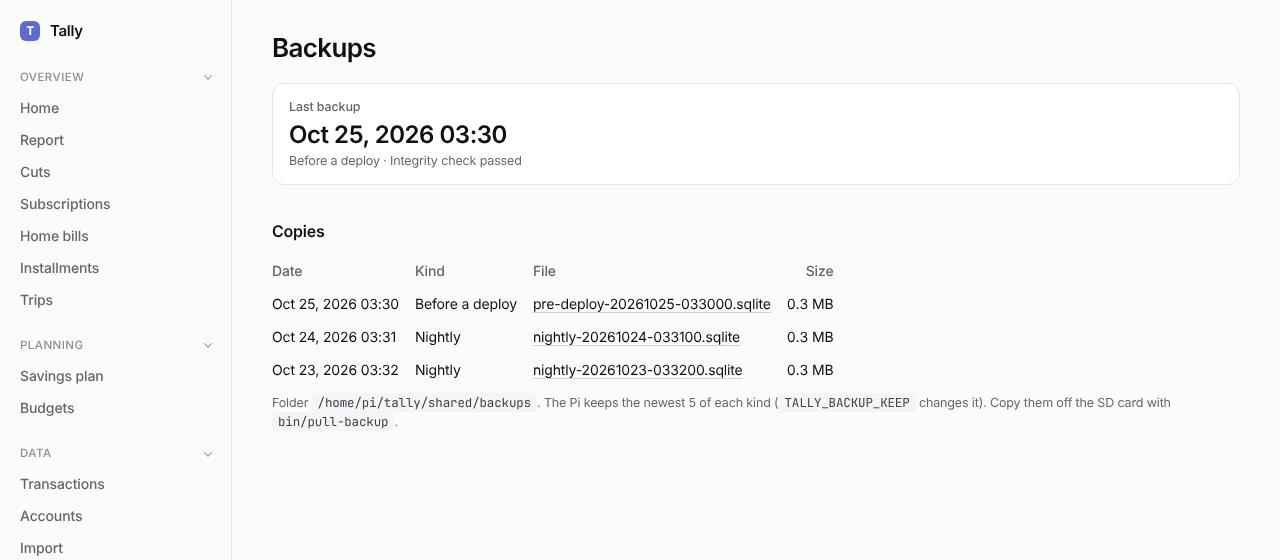
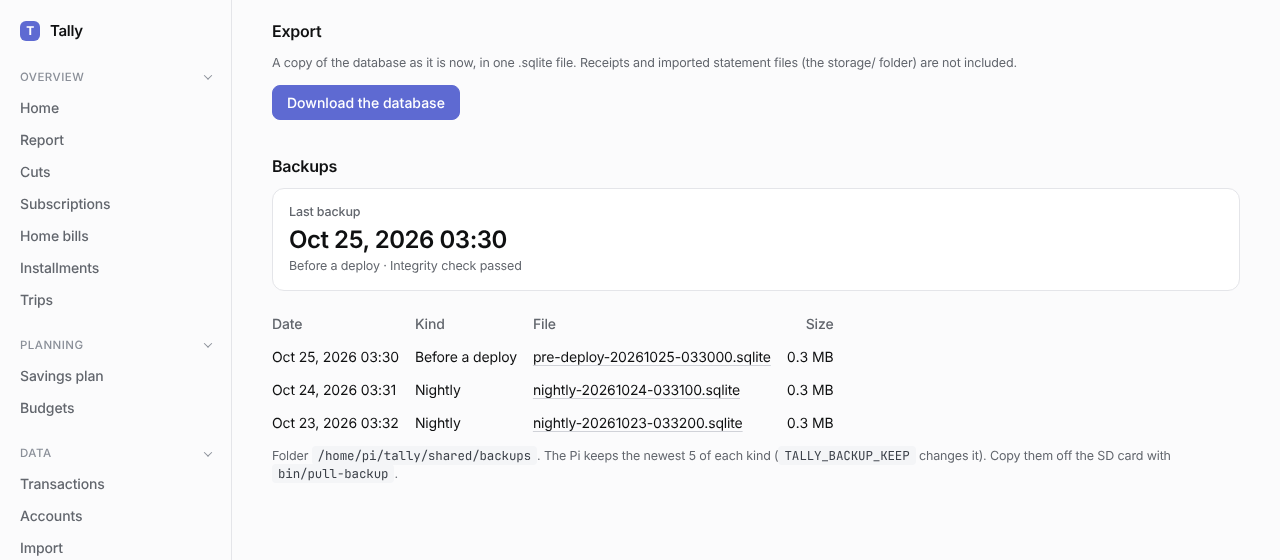
Backups: show them in Debug info, next to the export
The separate page and its sidebar link go away; the section lives on
/debug (#backups), downloads move to /debug/backups/<file>, and the home
warning links there.

Claude-Session: https://claude.ai/code/session_014YhsoDaZo9HX5ur3DPaQae

diff --git a/spec/requests/debug_backups_spec.rb b/spec/requests/debug_backups_spec.rb
@@ -2,15 +2,19 @@
 
 require "tmpdir"
 
-RSpec.describe "Backups", type: :request do
+RSpec.describe "Backups on the Debug info page", type: :request do
   it "explains where backups come from when this machine has none" do
-    get "/backups"
+    get "/debug"
 
     expect(last_response.status).to eq(200)
-    expect(last_response.body).to include("<h1>Backups</h1>", %(<a href="/backups" aria-current="page">), "BACKUP_DIR")
+    expect(last_response.body).to include(%(<h2 id="backups">Backups</h2>), "BACKUP_DIR")
 
     get "/"
     expect(last_response.body).not_to include("No backup in the last", "The last backup failed")
+
+    allow(Hanami.app["settings"]).to receive(:allow_export_without_login).and_return(true)
+    get "/debug/backups/nightly-20261025-033000.sqlite"
+    expect(last_response.status).to eq(404)
   end
 
   context "with a backups folder" do
@@ -27,13 +31,13 @@ RSpec.describe "Backups", type: :request do
     end
 
     it "shows the last run and the copies, without download links while the login is off" do
-      get "/backups"
+      get "/debug"
 
       expect(last_response.body).to include("Oct 25, 2026 03:30", "nightly-20261025-033000.sqlite", @dir, "bin/pull-backup")
-      expect(last_response.body).to include("Integrity check passed", "Downloads need the login on")
-      expect(last_response.body).not_to include(%(href="/backups/nightly))
+      expect(last_response.body).to include("Integrity check passed", "Downloads follow the same rule as the export")
+      expect(last_response.body).not_to include(%(href="/debug/backups/nightly))
 
-      get "/backups/nightly-20261025-033000.sqlite"
+      get "/debug/backups/nightly-20261025-033000.sqlite"
       expect(last_response.status).to eq(403)
 
       get "/"
@@ -43,34 +47,34 @@ RSpec.describe "Backups", type: :request do
     it "downloads a copy when allowed, and only files from the folder" do
       allow(Hanami.app["settings"]).to receive(:allow_export_without_login).and_return(true)
 
-      get "/backups"
-      expect(last_response.body).to include(%(href="/backups/nightly-20261025-033000.sqlite"))
+      get "/debug"
+      expect(last_response.body).to include(%(href="/debug/backups/nightly-20261025-033000.sqlite"))
 
-      get "/backups/nightly-20261025-033000.sqlite"
+      get "/debug/backups/nightly-20261025-033000.sqlite"
       expect(last_response.status).to eq(200)
       expect(last_response.headers["Content-Disposition"]).to eq(%(attachment; filename="nightly-20261025-033000.sqlite"))
       expect(last_response.body).to start_with("SQLite format 3\0")
 
-      get "/backups/nightly-20261024-033000.sqlite"
+      get "/debug/backups/nightly-20261024-033000.sqlite"
       expect(last_response.status).to eq(404)
-      get "/backups/log.jsonl"
+      get "/debug/backups/log.jsonl"
       expect(last_response.status).to eq(404)
     end
 
     it "warns on the page and at home when the newest copy is old" do
       allow(Time).to receive(:now).and_return(now + 2 * 86_400)
 
-      get "/backups"
+      get "/debug"
       expect(last_response.body).to include(%(<p class="warning">No backup in the last 36 hours.))
 
       get "/"
-      expect(last_response.body).to include(%(<p class="warning"><a href="/backups">No backup in the last 36 hours.))
+      expect(last_response.body).to include(%(<p class="warning"><a href="/debug#backups">No backup in the last 36 hours.))
     end
 
     it "warns when the last check failed" do
       File.write(File.join(@dir, "log.jsonl"), %({"time":"2026-10-25T11:00:00Z","kind":"pre-deploy","file":"pre-deploy-20261025-080000.sqlite","bytes":0,"check":"row 3 missing from index"}\n), mode: "a")
 
-      get "/backups"
+      get "/debug"
       expect(last_response.body).to include("The last backup failed: row 3 missing from index")
 
       get "/"

diff --git a/config/settings.rb b/config/settings.rb
@@ -14,8 +14,8 @@ module Tally
     # holds every transaction. True lets it work without one (e.g. on a trusted home network).
     setting :allow_export_without_login, default: false, constructor: Types::Params::Bool
 
-    # Where the Pi keeps its database backups (deploy/pi/backup.sh), for the Backups page and
-    # the home warning. Blank (development) means there are none on this machine.
+    # Where the Pi keeps its database backups (deploy/pi/backup.sh), for the Backups section
+    # of the Debug info page and the home warning. Blank (development) means there are none.
     setting :backup_dir, default: nil, constructor: Types::String.optional
 
     # Where imported statement files are kept, named by their SHA-256, so any import can be

diff --git a/app/views/debug/show.rb b/app/views/debug/show.rb
@@ -23,6 +23,13 @@ module Tally
 
         # The export button shows only when the download is allowed (Actions::Debug::Export).
         expose(:export_on) { Tally::DatabaseExport.allowed? }
+
+        # The Pi's database backups (Tally::Backups): the last run, its check and the copies.
+        # Downloads follow the export rule above.
+        expose(:backup_dir) { Tally::Backups.dir }
+        expose(:copies, decorate: false) { |backup_dir| backup_dir ? Tally::Backups.copies(backup_dir) : [] }
+        expose(:last_run, decorate: false) { |backup_dir| Tally::Backups.last_run(backup_dir) if backup_dir }
+        expose(:backup_status) { |backup_dir| Tally::Backups.status(backup_dir) if backup_dir }
       end
     end
   end

diff --git a/app/actions/debug/backup.rb b/app/actions/debug/backup.rb
@@ -2,12 +2,12 @@
 
 module Tally
   module Actions
-    module Backups
+    module Debug
       # Downloads one backup copy. Like the database export, only behind the login unless a
       # setting allows it (Tally::DatabaseExport.allowed?), and only a file the folder lists.
-      class Show < Tally::Action
+      class Backup < Tally::Action
         def handle(request, response)
-          halt 403, t("backups.index.downloads_off") unless Tally::DatabaseExport.allowed?
+          halt 403, t("backups.downloads_off") unless Tally::DatabaseExport.allowed?
 
           dir = Tally::Backups.dir or halt(404)
           copy = Tally::Backups.copies(dir).find { _1.file == request.params[:file] } || halt(404)

diff --git a/lib/tally/backups.rb b/lib/tally/backups.rb
@@ -4,9 +4,9 @@ require "json"
 require "time"
 
 module Tally
-  # The Pi's database backups, for the Backups page and the home warning (issue #137,
-  # docs/architecture.md, section 10.3). deploy/pi/backup.sh writes the copies into one
-  # folder (BACKUP_DIR) and one line per run to its log.jsonl; this only reads them.
+  # The Pi's database backups, for the Backups section of the Debug info page and the home
+  # warning (issue #137, docs/architecture.md, section 10.3). deploy/pi/backup.sh writes the
+  # copies into one folder (BACKUP_DIR) and one line per run to its log.jsonl; this only reads them.
   module Backups
     STALE_AFTER = 36 * 3600
     LOG = "log.jsonl"

diff --git a/config/routes.rb b/config/routes.rb
@@ -9,8 +9,7 @@ module Tally
     post "/theme", to: "theme.update", as: :theme
     get "/debug", to: "debug.show", as: :debug
     post "/debug/export", to: "debug.export", as: :debug_export
-    get "/backups", to: "backups.index", as: :backups
-    get "/backups/:file", to: "backups.show", as: :backup, constraints: {file: /[a-z-]+-\d{8}-\d{6}\.sqlite/}
+    get "/debug/backups/:file", to: "debug.backup", as: :backup, constraints: {file: /[a-z-]+-\d{8}-\d{6}\.sqlite/}
 
     get "/imports", to: "imports.index", as: :imports
     post "/imports", to: "imports.create"

diff --git a/docs/architecture.md b/docs/architecture.md
@@ -507,7 +507,7 @@ Set for every connection in `config/providers/db.rb` (milestone 1), and shown on
 | `synchronous` | `FULL` | Writes are rare, so pay for durability on an SD card that may lose power. |
 | `busy_timeout` | `5000` | Wait instead of failing on concurrent writes. |
 
-Plus a **nightly backup** (`sqlite3 … ".backup"`, the newest 5 kept, copied off the SD card), a **`PRAGMA integrity_check`** on every copy, shown on the Backups page and the home page if it fails or the newest copy is old, and the original statement files kept in `storage/imports/` so the database can be rebuilt from them. Home bill receipts live in `storage/receipts/` (§8.9) and are copied off daily with rsync.
+Plus a **nightly backup** (`sqlite3 … ".backup"`, the newest 5 kept, copied off the SD card), a **`PRAGMA integrity_check`** on every copy, shown on the Debug info page and the home page if it fails or the newest copy is old, and the original statement files kept in `storage/imports/` so the database can be rebuilt from them. Home bill receipts live in `storage/receipts/` (§8.9) and are copied off daily with rsync.
 
 ## 10. Running on the Pi Zero 2 W
 
@@ -549,7 +549,7 @@ The host defaults to `$TALLY_HOST`, else `pi@pihole.local`. The Pi user needs pa
 
 `tally-backup.timer` runs `deploy/pi/backup.sh` at 03:30 (or at boot if the Pi was off): SQLite's online `.backup`, then `PRAGMA integrity_check` on the copy, keeping the newest 5 of each kind (`TALLY_BACKUP_KEEP` in `tally.env` changes it). A failed check fails the unit (`systemctl --failed`). Each deploy takes a `pre-deploy` copy before migrating. Off the SD card they go with `bin/pull-backup`, along with the receipts and imported files.
 
-Each run also appends one JSON line to `backups/log.jsonl` (UTC time, kind, file, size, and `ok` or what went wrong; the last 100 lines kept). A copy that fails the backup or the check is deleted, so the folder only holds good copies. The app finds the folder through `BACKUP_DIR` (`setup.sh` writes it into `tally.env`, adding it to an older one) and reads it with `Tally::Backups` (issue #137): the **Backups** page (`/backups`, under Data) shows the last run and its check, and the copies newest first with their kind, time and size. When the last run failed, or the newest copy is older than 36 hours (or there is none), the page and the home page show a warning linking there. Downloading a copy (`GET /backups/<file>`, only names the folder lists) follows the export rule below (`Tally::DatabaseExport.allowed?`), otherwise 403. Nothing runs in the background: the page lists one folder and reads a 100-line file. With `BACKUP_DIR` blank (development) the page explains how backups work on the Pi and home shows nothing.
+Each run also appends one JSON line to `backups/log.jsonl` (UTC time, kind, file, size, and `ok` or what went wrong; the last 100 lines kept). A copy that fails the backup or the check is deleted, so the folder only holds good copies. The app finds the folder through `BACKUP_DIR` (`setup.sh` writes it into `tally.env`, adding it to an older one) and reads it with `Tally::Backups` (issue #137): the **Backups** section of the Debug info page (`/debug#backups`, next to the export) shows the last run and its check, and the copies newest first with their kind, time and size. When the last run failed, or the newest copy is older than 36 hours (or there is none), that section and the home page show a warning linking there. Downloading a copy (`GET /debug/backups/<file>`, only names the folder lists) follows the export rule below, the same switch as the export button (`Tally::DatabaseExport.allowed?`), otherwise 403. Nothing runs in the background: the section lists one folder and reads a 100-line file. With `BACKUP_DIR` blank (development) the section explains how backups work on the Pi and home shows nothing.
 
 A copy can also be downloaded from the browser: **Download the database** on the Debug info page (`/debug`, issue #136) runs `VACUUM INTO` a temp file (a consistent snapshot even mid-write in WAL mode), checks it with `PRAGMA integrity_check` and sends it as `tally-YYYYMMDD-HHMMSS.sqlite` in local time (`Tally::DatabaseExport`). Only the database, not `storage/`. The file holds every transaction, so the button shows and `POST /debug/export` answers only when basic auth is on (both `BASIC_AUTH_*` set) or `ALLOW_EXPORT_WITHOUT_LOGIN=true` (`Tally::DatabaseExport.allowed?`); otherwise the page says why and the route answers 403. Loading a file back from the browser is #139.
 
@@ -658,7 +658,7 @@ Only after version 1 is correct and in daily use. Each one only **suggests**; no
 - **Trips** (issue #75): done. See §8.8.
 - **Home bills** (issue #113): done. See §8.9.
 - **Household** (issue #21): people, accounts by owner, Pix between people paired or shown as unmatched, and the household / person switch (§6.1).
-- **Milestone 8 (Pi deployment)**: in progress (issue #23). `bin/pi-setup`, `bin/deploy`, `bin/pull-backup`, the `tally` service and the nightly backup with an integrity check, a database download on the Debug info page (#136), and the Backups page with a home warning for a failed or old backup (#137) (§10). Left: measuring memory and response times on the Zero 2 W with real-sized data.
+- **Milestone 8 (Pi deployment)**: in progress (issue #23). `bin/pi-setup`, `bin/deploy`, `bin/pull-backup`, the `tally` service and the nightly backup with an integrity check, a database download on the Debug info page (#136), and a Backups section there with a home warning for a failed or old backup (#137) (§10). Left: measuring memory and response times on the Zero 2 W with real-sized data.
 
 ## 17. Public repository: keeping personal data out
 

diff --git a/docs/guide/pt-BR/settings.md b/docs/guide/pt-BR/settings.md
@@ -22,7 +22,7 @@ Fim do menu: **Informações de debug**. Mostra a versão e as configurações d
 
 ## Backups
 
-Menu lateral, Dados: **Backups**. No Pi, uma cópia do banco é feita toda noite às 03:30 e antes de cada deploy, e verificada. A página mostra a última, se a verificação passou, e as cópias guardadas (as 5 mais novas de cada tipo). Se o último backup falhou, ou não há nenhum das últimas 36 horas, a página e o início mostram um aviso em vermelho.
+Informações de debug, abaixo da exportação: **Backups**. No Pi, uma cópia do banco é feita toda noite às 03:30 e antes de cada deploy, e verificada. A seção mostra a última, se a verificação passou, e as cópias guardadas (as 5 mais novas de cada tipo). Se o último backup falhou, ou não há nenhum das últimas 36 horas, a seção e o início mostram um aviso em vermelho.
 
 Clique num arquivo para baixá-lo; como no download do banco, só com o login ligado ou `ALLOW_EXPORT_WITHOUT_LOGIN=true`. Para copiar todos para o seu computador, rode `bin/pull-backup`.
 

diff --git a/docs/guide/en/settings.md b/docs/guide/en/settings.md
@@ -22,7 +22,7 @@ Sidebar, bottom: **Debug info**. Shows the SQLite version and settings (journal 
 
 ## Backups
 
-Sidebar, Data: **Backups**. On the Pi, a copy of the database is made every night at 03:30 and before each deploy, and checked. The page shows the last one, whether its check passed, and the copies kept (the newest 5 of each kind). If the last backup failed, or there is none from the last 36 hours, the page and the home page show a red warning.
+Debug info, below the export: **Backups**. On the Pi, a copy of the database is made every night at 03:30 and before each deploy, and checked. It shows the last one, whether its check passed, and the copies kept (the newest 5 of each kind). If the last backup failed, or there is none from the last 36 hours, it and the home page show a red warning.
 
 Click a file to download it; like the database download, only with the login on or `ALLOW_EXPORT_WITHOUT_LOGIN=true`. To copy them all to your computer, run `bin/pull-backup`.
 
